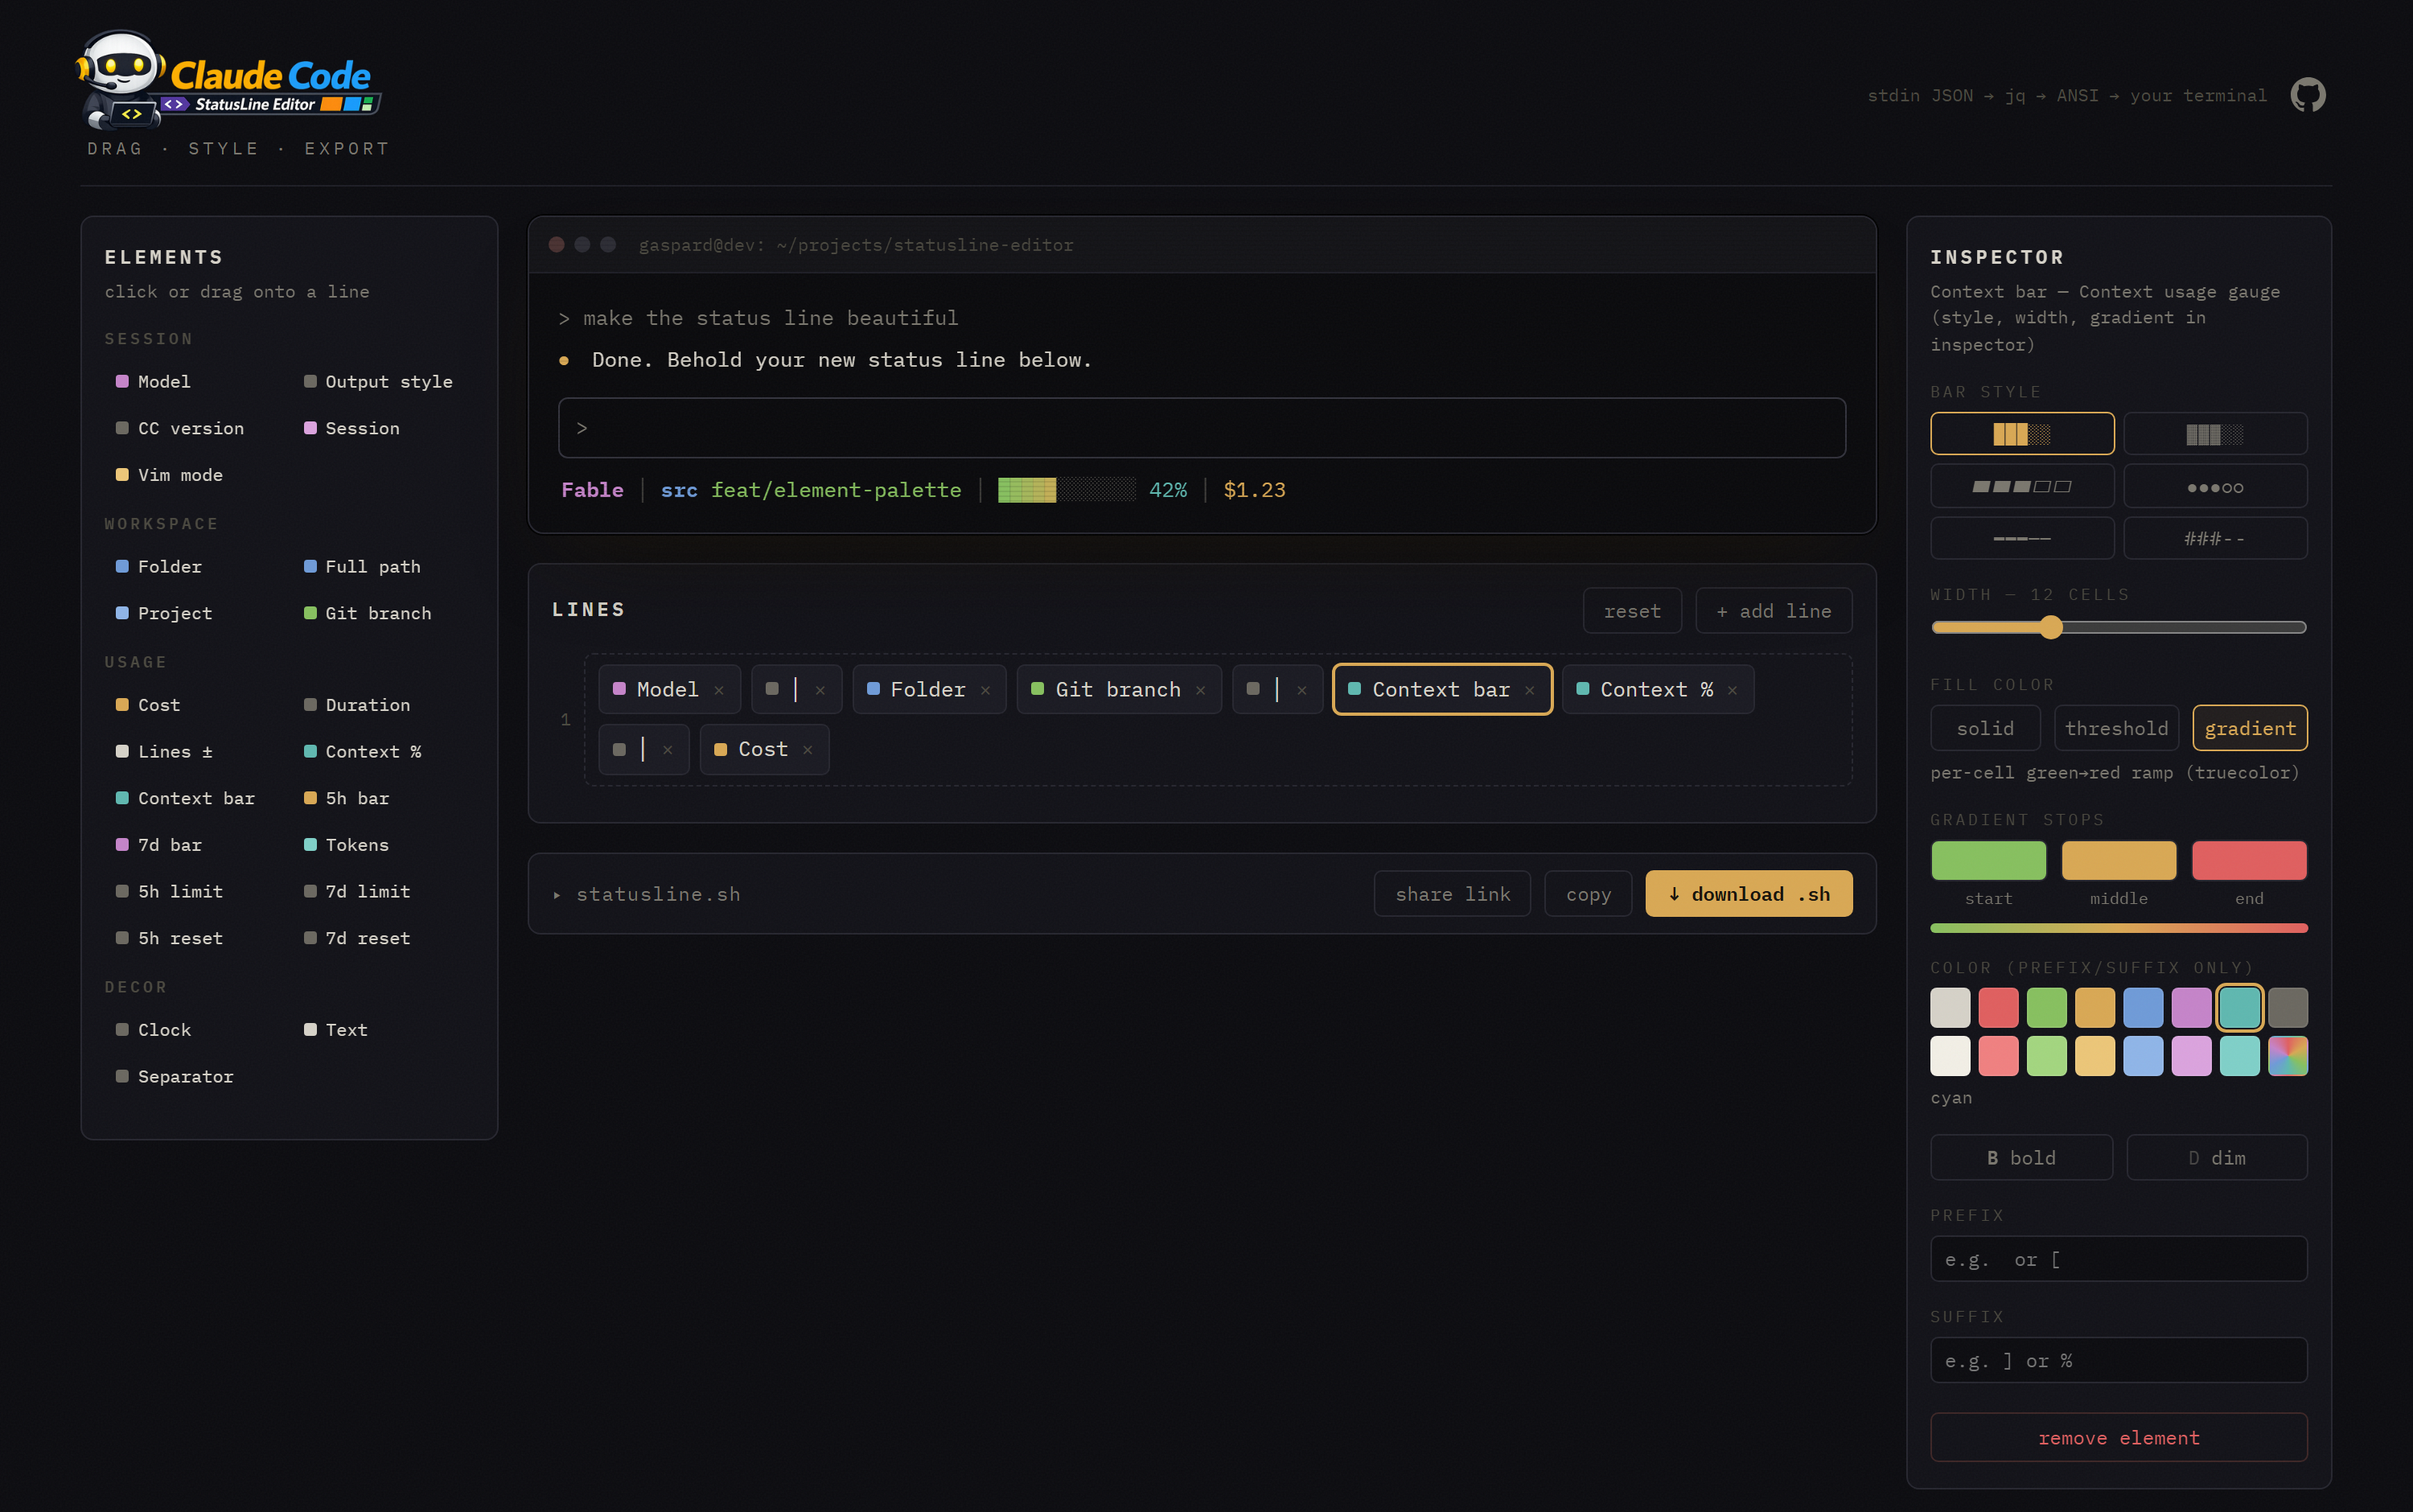
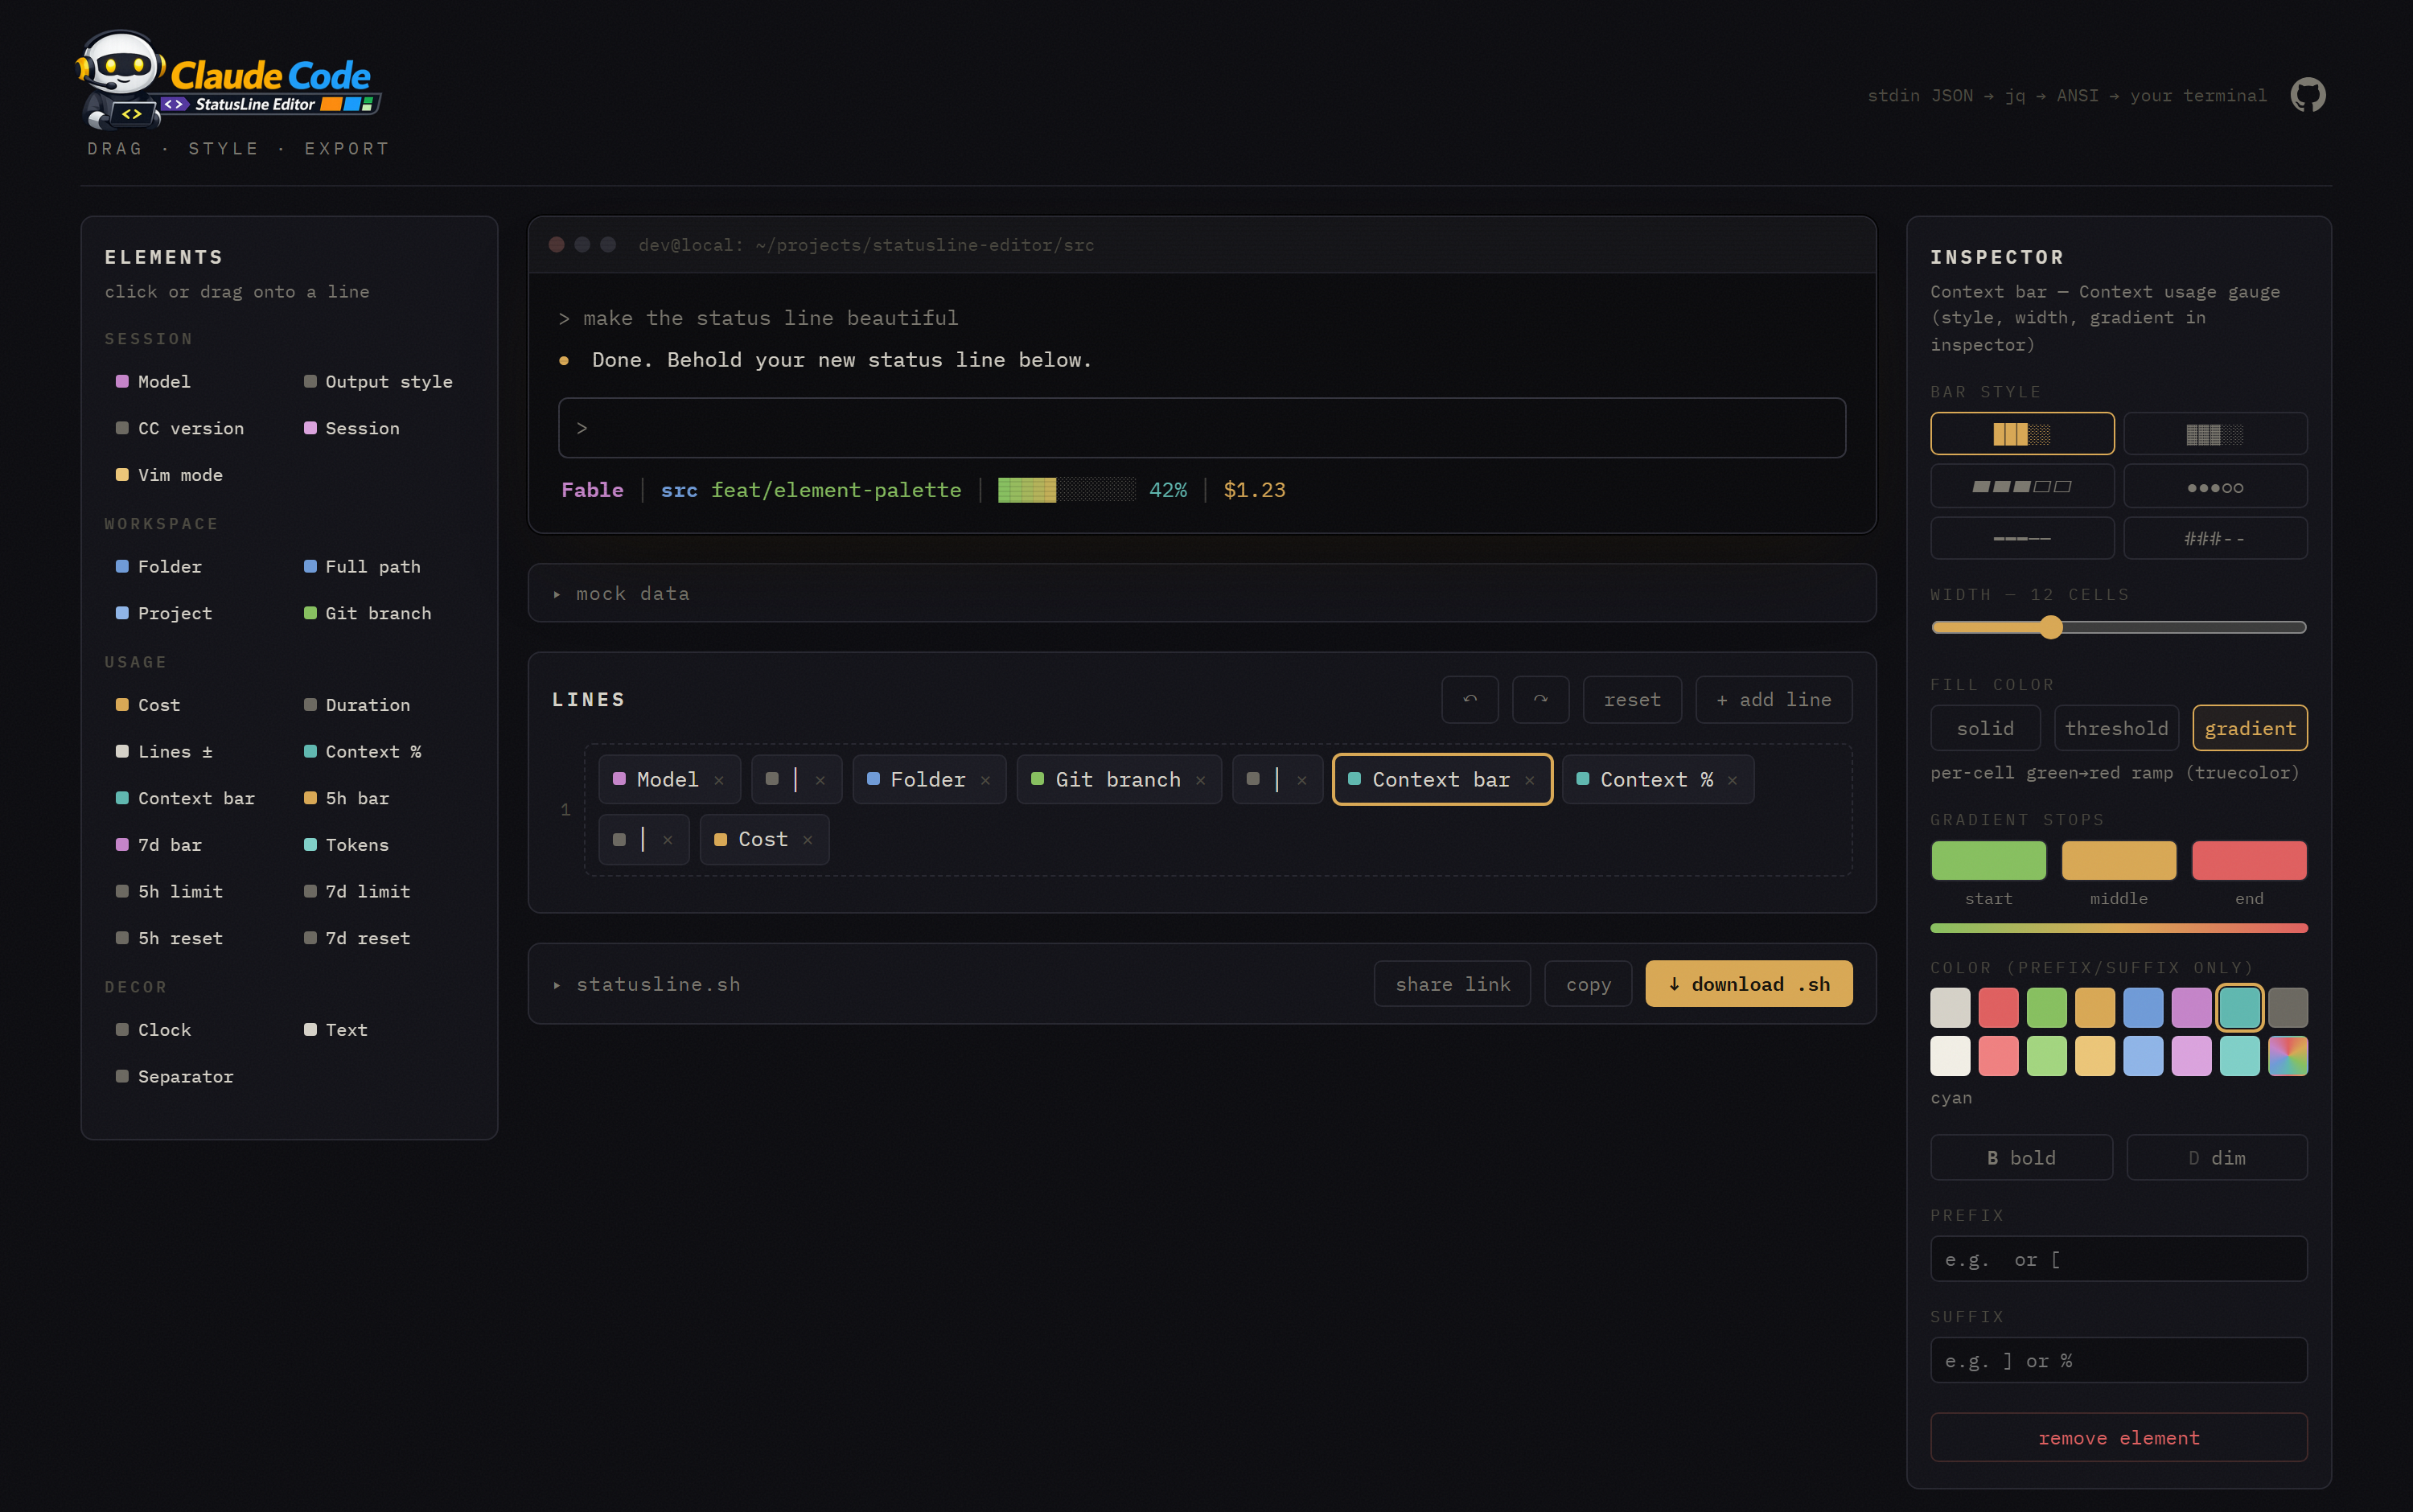
Replace personal name in mock data with a neutral placeholder

diff --git a/src/mock.ts b/src/mock.ts
@@ -8,8 +8,8 @@ export const MOCK = {
   session_name: 'editor',
   model: { id: 'claude-fable-5', display_name: 'Fable' },
   workspace: {
-    current_dir: '/home/gaspard/projects/statusline-editor/src',
-    project_dir: '/home/gaspard/projects/statusline-editor',
+    current_dir: '/home/dev/projects/statusline-editor/src',
+    project_dir: '/home/dev/projects/statusline-editor',
   },
   version: '2.1.90',
   output_style: { name: 'default' },

diff --git a/src/components/Preview.tsx b/src/components/Preview.tsx
@@ -76,7 +76,7 @@ export default function Preview({ rows }: { rows: ElementInstance[][] }) {
         <span className="tl-dot" />
         <span className="tl-dot" />
         <span className="terminal-title">
-          gaspard@dev: {MOCK.workspace.current_dir.replace(/^\/(home|Users)\/[^/]+/, '~')}
+          dev@local: {MOCK.workspace.current_dir.replace(/^\/(home|Users)\/[^/]+/, '~')}
         </span>
       </div>
       <div className="terminal-body">